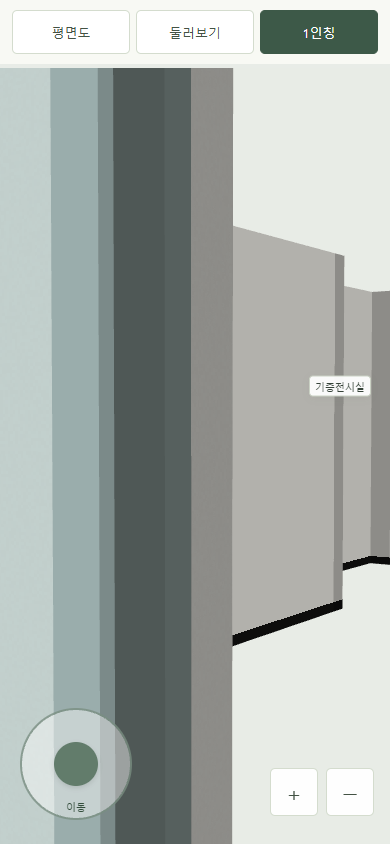
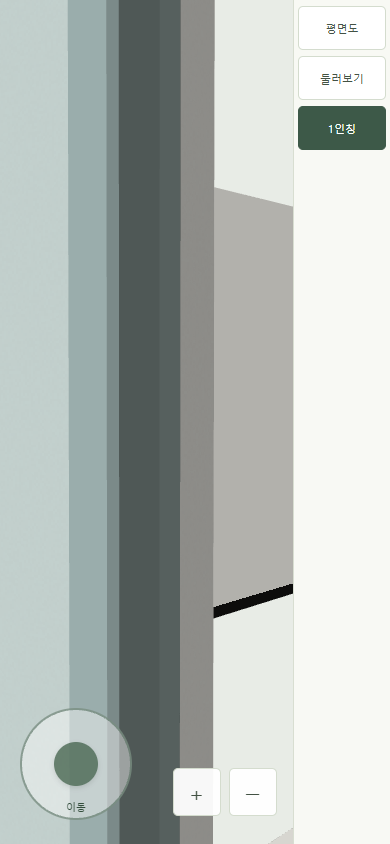
설명란 크기 가변 세팅

diff --git a/style.css b/style.css
@@ -1,5 +1,13 @@
-:root{color-scheme:light;font-family:system-ui,'Malgun Gothic',sans-serif;color:#273631;background:#e8ece7;--d-canvas:#e8ece7}*{box-sizing:border-box}body{margin:0}.app{display:grid;grid-template-columns:minmax(0,1fr) 320px;height:100vh;height:100dvh}.stage{display:flex;flex-direction:column;min-width:0;min-height:0}.viewport{flex:1;position:relative;min-height:0;overflow:hidden}canvas{width:100%;height:100%;display:block;position:absolute;inset:0;outline:none;cursor:default}canvas:focus-visible{outline:2px solid #6c826e;outline-offset:-3px}#labels{position:absolute;inset:0;pointer-events:none}.room-label{position:absolute;transform:translate(-50%,-50%);background:#fffffff0;padding:5px 8px;border:1px solid #cad1c4;border-radius:4px;font-size:11px;white-space:nowrap;color:#364339;box-shadow:0 2px 8px #2438280c}aside{background:#f8f9f4;border-left:1px solid #d8ded1;padding:20px 16px;overflow:auto;display:flex;flex-direction:column}.mode-nav{display:grid;grid-template-columns:repeat(3,minmax(0,1fr));gap:6px}.mode-nav button{font:inherit;font-size:13px;white-space:nowrap;text-align:center;border:1px solid #d4dcce;border-radius:5px;background:#fff;padding:12px 4px;color:#435244;cursor:pointer;min-height:44px}.mode-nav button:hover{border-color:#7d947e}.mode-nav button.active{background:#3d5948;color:white;border-color:#3d5948}button:focus-visible{outline:2px solid #4a7154;outline-offset:2px}#exhibit-info{flex:1;min-height:0;margin-top:20px}#error{position:absolute;inset:30%;background:#fff;padding:20px;color:#963a32}.mobile-hud{display:none}
-.mobile-input{overscroll-behavior:none}.mobile-input .app{display:block;height:100dvh}.mobile-input .stage{height:100dvh;padding-top:calc(68px + env(safe-area-inset-top))}.mobile-input canvas{touch-action:none}.mobile-input aside{position:fixed;left:0;right:0;top:0;z-index:8;border:0;padding:calc(10px + env(safe-area-inset-top)) calc(12px + env(safe-area-inset-right)) 10px calc(12px + env(safe-area-inset-left));background:#f8f9f4}.mobile-input .mode-nav{max-width:440px;width:100%;margin:0 auto}.mobile-input #exhibit-info:empty{display:none}.mobile-input #exhibit-info:not(:empty){max-height:28dvh;overflow:auto}.mobile-input .mobile-hud{display:block;position:absolute;inset:0;pointer-events:none;z-index:5}.mobile-stick{position:absolute;left:calc(20px + env(safe-area-inset-left));bottom:calc(24px + env(safe-area-inset-bottom));width:112px;height:112px;border-radius:50%;background:#ffffff70;border:2px solid #526c5c99;pointer-events:auto;touch-action:none;user-select:none;display:grid;place-items:center}.mobile-stick[hidden]{display:none}.stick-knob{position:absolute;width:44px;height:44px;border-radius:50%;background:#486651cc;box-shadow:0 2px 6px #0002;pointer-events:none}.stick-label{position:absolute;bottom:5px;font-size:10px;color:#344e3c;pointer-events:none}.mobile-zoom{position:absolute;right:calc(16px + env(safe-area-inset-right));bottom:calc(28px + env(safe-area-inset-bottom));display:flex;gap:8px;pointer-events:auto}.mobile-zoom button{font:inherit;font-size:22px;width:48px;height:48px;border:1px solid #d4dcce;border-radius:5px;background:#fffffff0;color:#435244;touch-action:manipulation}.mobile-input .room-label{font-size:10px;padding:3px 5px}@media(orientation:landscape) and (max-height:550px){.mobile-input .mobile-stick{width:96px;height:96px;bottom:calc(20px + env(safe-area-inset-bottom))}}@media(max-width:760px) and (pointer:fine){.app{grid-template-columns:minmax(0,1fr) 260px}aside{padding:12px 8px}.mode-nav button{font-size:12px}}
+:root{color-scheme:light;font-family:system-ui,'Malgun Gothic',sans-serif;color:#273631;background:#e8ece7;--d-canvas:#e8ece7}*{box-sizing:border-box}body{margin:0}.app{display:grid;grid-template-columns:minmax(0,3fr) minmax(0,1fr);height:100vh;height:100dvh}.stage{display:flex;flex-direction:column;min-width:0;min-height:0}.viewport{flex:1;position:relative;min-height:0;overflow:hidden}canvas{width:100%;height:100%;display:block;position:absolute;inset:0;outline:none;cursor:default}canvas:focus-visible{outline:2px solid #6c826e;outline-offset:-3px}#labels{position:absolute;inset:0;pointer-events:none}.room-label{position:absolute;transform:translate(-50%,-50%);background:#fffffff0;padding:5px 8px;border:1px solid #cad1c4;border-radius:4px;font-size:11px;white-space:nowrap;color:#364339;box-shadow:0 2px 8px #2438280c}aside{background:#f8f9f4;border-left:1px solid #d8ded1;padding:clamp(6px,1.4vw,20px) clamp(4px,1.1vw,16px);overflow:auto;display:flex;flex-direction:column;min-width:0;min-height:0;container-type:inline-size}.mode-nav{display:grid;grid-template-columns:repeat(3,minmax(0,1fr));gap:6px}.mode-nav button{font:inherit;font-size:13px;white-space:nowrap;text-align:center;border:1px solid #d4dcce;border-radius:5px;background:#fff;padding:12px 4px;color:#435244;cursor:pointer;min-height:44px}.mode-nav button:hover{border-color:#7d947e}.mode-nav button.active{background:#3d5948;color:white;border-color:#3d5948}button:focus-visible{outline:2px solid #4a7154;outline-offset:2px}#exhibit-info{flex:1;min-height:0;margin-top:20px}#error{position:absolute;inset:30%;background:#fff;padding:20px;color:#963a32}.mobile-hud{display:none}
+.mobile-input{overscroll-behavior:none}.mobile-input .app{height:100dvh}.mobile-input .stage{min-height:0}.mobile-input canvas{touch-action:none}.mobile-input aside{padding-top:max(6px,env(safe-area-inset-top));padding-bottom:max(6px,env(safe-area-inset-bottom));padding-right:max(4px,env(safe-area-inset-right))}.mobile-input .mode-nav{width:100%;margin:0}.mobile-input #exhibit-info:empty{display:none}.mobile-input #exhibit-info:not(:empty){overflow:auto;overflow-wrap:anywhere}.mobile-input .mobile-hud{display:block;position:absolute;inset:0;pointer-events:none;z-index:5}.mobile-stick{position:absolute;left:calc(20px + env(safe-area-inset-left));bottom:calc(24px + env(safe-area-inset-bottom));width:112px;height:112px;border-radius:50%;background:#ffffff70;border:2px solid #526c5c99;pointer-events:auto;touch-action:none;user-select:none;display:grid;place-items:center}.mobile-stick[hidden]{display:none}.stick-knob{position:absolute;width:44px;height:44px;border-radius:50%;background:#486651cc;box-shadow:0 2px 6px #0002;pointer-events:none}.stick-label{position:absolute;bottom:5px;font-size:10px;color:#344e3c;pointer-events:none}.mobile-zoom{position:absolute;right:calc(16px + env(safe-area-inset-right));bottom:calc(28px + env(safe-area-inset-bottom));display:flex;gap:8px;pointer-events:auto}.mobile-zoom button{font:inherit;font-size:22px;width:48px;height:48px;border:1px solid #d4dcce;border-radius:5px;background:#fffffff0;color:#435244;touch-action:manipulation}.mobile-input .room-label{font-size:10px;padding:3px 5px}@media(orientation:landscape) and (max-height:550px){.mobile-input .mobile-stick{width:96px;height:96px;bottom:calc(20px + env(safe-area-inset-bottom))}}
 .room-label{font-family:inherit;line-height:normal}.room-label:not(:disabled){pointer-events:auto;cursor:pointer;touch-action:manipulation}.room-label:not(:disabled):hover{border-color:#47634e;background:#fff}.room-label:disabled{opacity:1;pointer-events:none}
 #waypoints{position:absolute;inset:0;pointer-events:none;z-index:4}#waypoints[hidden]{display:none}.waypoint{position:absolute;transform:translate(-50%,-50%);width:38px;height:20px;border:3px solid #ffffffe6;border-radius:50%;background:#ffffff20;box-shadow:0 1px 4px #0006;pointer-events:auto;cursor:pointer;padding:0}.waypoint[hidden]{display:none}.waypoint:hover,.waypoint:focus-visible{background:#ffffffa0;border-color:#fff}
 .ground-cursor{position:absolute;transform:translate(-50%,-50%);width:30px;height:16px;border:2px solid white;border-radius:50%;background:#ffffff25;box-shadow:0 1px 4px #0006;pointer-events:none;z-index:4}.ground-cursor[hidden]{display:none}
+
+/* 모든 플랫폼 공통 75:25. 좁은 패널은 내부 버튼만 세로 배치한다. */
+@container (max-width:180px){.mode-nav{grid-template-columns:minmax(0,1fr)}.mode-nav button{font-size:11px;white-space:normal;overflow-wrap:anywhere;padding:10px 2px}}
+
+.mobile-panel-toggle{display:none}
+.mobile-input .mobile-panel-toggle{display:grid;place-items:center;position:fixed;right:env(safe-area-inset-right,0px);top:50%;transform:translateY(-50%);z-index:20;width:44px;height:56px;padding:0;border:1px solid #b6c4b7;border-right:0;border-radius:10px 0 0 10px;background:#f8f9f4f2;color:#3d5948;font:32px/1 system-ui;box-shadow:-2px 2px 8px #24382818;touch-action:manipulation;cursor:pointer}
+.mobile-input.panel-hidden .app{grid-template-columns:minmax(0,1fr)}
+.mobile-input.panel-hidden aside{display:none}

diff --git a/mobile-controls.js b/mobile-controls.js
@@ -7,10 +7,23 @@ window.MuseumMobileControls=function(canvas,controls,options={}){
   <div class="mobile-zoom"><button type="button" data-touch="in" aria-label="확대">＋</button><button type="button" data-touch="out" aria-label="축소">−</button></div>
   `;
  canvas.parentElement.append(root);const joystick=root.querySelector('.mobile-stick'),knob=root.querySelector('.stick-knob');
+ const panel=document.querySelector('aside'),panelToggle=document.createElement('button');
+ panel.id='options-panel';panelToggle.type='button';panelToggle.className='mobile-panel-toggle';
+ panelToggle.setAttribute('aria-controls',panel.id);document.body.append(panelToggle);
+ let panelClosed=false;
+ function syncPanel(){
+  const hidden=media.matches&&panelClosed;
+  document.body.classList.toggle('panel-hidden',hidden);
+  panel.inert=hidden;panel.setAttribute('aria-hidden',String(hidden));
+  panelToggle.setAttribute('aria-expanded',String(!hidden));
+  panelToggle.setAttribute('aria-label',hidden?'패널 열기':'패널 숨기기');
+  panelToggle.title=hidden?'패널 열기':'패널 숨기기';panelToggle.textContent=hidden?'‹':'›';
+ }
+ panelToggle.addEventListener('click',()=>{reset();controls.clear();panelClosed=!panelClosed;syncPanel();});
  const release=(target,id)=>{try{if(target.hasPointerCapture(id))target.releasePointerCapture(id);}catch{}};
  function reset(){for(const id of touches.keys())release(canvas,id);touches.clear();pair=null;if(stick!==null)release(joystick,stick);stick=null;axes=[0,0];knob.style.transform='translate(0px,0px)';}
  function sync(){joystick.hidden=controls.state.mode!=='interior';}
- function configure(){reset();document.body.classList.toggle('mobile-input',media.matches);sync();}
+ function configure(){reset();document.body.classList.toggle('mobile-input',media.matches);sync();syncPanel();}
  for(const [name,delta] of [['in',-.15],['out',.15]])root.querySelector(`[data-touch="${name}"]`).addEventListener('click',()=>{controls.input.zoom(delta);});
  const snapshot=()=>{const p=[...touches.values()];return p.length===2?{x:(p[0].x+p[1].x)/2,y:(p[0].y+p[1].y)/2,d:Math.hypot(p[0].x-p[1].x,p[0].y-p[1].y)}:null;};
  canvas.addEventListener('pointerdown',e=>{

diff --git a/README.md b/README.md
@@ -1,105 +1,103 @@
-# 박물관 WebGL2 모델 · 14차
+# 부천활박물관 WebGL2 · 현재 버전
 
 상단·정면·양측면 이미지와 Matterport VR을 참고한 박물관 공간 모델입니다.
-현재 실행 코드는 이 폴더의 파일이며 `archive-v1`~`archive-v13`은 과거 소스 보관본입니다.
+루트 파일이 실행 버전이며 `archive-v*`는 과거 소스 보관본입니다.
 
 ## 실행
 
-`index.html`을 Edge 또는 Chrome에서 엽니다. WebGL2 지원이 필요하며 빌드·외부 다운로드·서버는 필요하지 않습니다.
+`index.html`을 WebGL2 지원 Edge 또는 Chrome에서 엽니다. 빌드·서버·외부 다운로드 없이 실행합니다.
+목재 텍스처는 로컬 실행을 위해 `assets/textures/texture-assets.js`에 데이터 URI로 포함되어 있습니다.
 
-## 구현 범위
+## 관람 화면
 
-- 단일 높이·단일 색상의 직각 외곽 통합 바닥. 야외 표시 영역도 같은 높이입니다.
-- 실내 외곽 22구간의 연결 외벽, 내부 벽, 문틀·문짝, 유리면, 기둥·상부 보.
-- 영상실 앞 공간과 부천활박물관 사이의 곡면·돌출 분리벽 및 동측 열린 통로.
-- 체험마루의 넓은 출입부와 야외 방향 유리문, 기획·기증전시실 경계와 출입부.
-- 입구 안내 책상, 둥근 모서리 작업대, 목재 상부 격자·아치, 빈 전시대·매입 진열부.
-- 상부 전시 영역의 양면 목재 테이블 2개, 대형 빈 받침, 외벽 진열부.
-- 실감형체험장을 별도 공간으로 구획. 서측 출입구와 막힌 뒷면을 가진 전면 전시 홈.
-- 체험마루·기획전시실 천장은 선택 표시.
+- **평면도**: 정확한 탑뷰의 직교투영.
+- **둘러보기**: 주시점 중심의 외부 관찰. 벽 통과 가능.
+- **1인칭**: 눈높이 1.575, 카메라 중심 회전. 벽·문·유리·기둥·전시 시설과 몸체 충돌.
+- 둘러보기에서 구역 이름표를 누르면 해당 구역의 안전 진입점까지 550ms 동안 이동합니다.
+  평면도 이름표는 클릭할 수 없습니다. 1인칭 이름표는 높이 1.85에 표시됩니다.
+- 오른쪽 패널은 관람 방식 세 버튼과 전시물 설명용 빈 `exhibit-info` 영역으로 구성됩니다.
+  예전 시점 목록·공간 목록·표시 체크박스는 현재 UI에 없습니다.
+- PC·태블릿·모바일 모두 화면 너비를 모델 75%, 오른쪽 패널 25%로 나눕니다.
+  좁은 패널 안에서는 버튼을 세로로 배치하며 패널 내용은 내부 스크롤합니다.
+  모바일도 상단 바가 아닌 오른쪽 패널을 사용합니다.
 
-전시품·모형·부조 작품·족자·설명 인쇄물·영상 콘텐츠·벽 텍스처는 포함하지 않습니다.
-현재 범위에는 빈 전시 시설과 책상이 포함됩니다.
+## PC 조작
 
-## 조작
+- 외부: 마우스 왼쪽 드래그 또는 방향키로 주시점 중심 회전, WASD로 시점 기준 수평 이동.
+  외부에서는 방향키 회전이 WASD 이동보다 우선합니다.
+- 외부 상하 회전은 수평~탑뷰. 정확한 탑뷰에서만 직교투영이며 기울이면 원근투영으로 복귀합니다.
+- 내부: FPS 커서 잠금 후 마우스 이동 또는 방향키로 시선 회전. 상하 범위는 ±45°이며 항상 원근투영입니다.
+  Esc로 잠금을 풀고 화면 클릭으로 재개합니다. 마우스 민감도는 외부의 절반입니다.
+- 내부 WASD는 시선 기준 수평 이동, 초당 3 상대 단위입니다. 이동과 회전을 동시에 적용합니다.
+- 휠 / + / −: 외부는 거리, 내부는 위치를 유지한 FOV 확대·축소(25~75°).
+- Space: 외부/내부 전환. 첫 진입은 입구 대기 공간 (125,430)에서 유리 출입문 (205,366.5)을 바라봅니다.
+  재진입은 마지막 내부 위치·시선·FOV를 복원합니다.
+- Home: 전체 외부 보기.
+- 왼쪽 Shift: 커서 잠금을 풀고 바닥 클릭 이동. Shift+드래그는 회전만 수행합니다.
+  목적지까지 충돌을 피하는 A* 경로로 이동하며 자세한 동작은 [WAYPOINTS.md](WAYPOINTS.md)를 참고하세요.
 
-PC 조작은 명시적 플래그 `controls.state.mode`로 구분합니다. 위치나 확대 배율만으로 모드를 자동 변경하지 않습니다.
+## 모바일 조작
 
-| 모드 | 방향키 회전 | 벽 충돌 | 시작 시선·높이 |
-|---|---|---|---|
-| 외부 관찰 (exterior) | 주시점 중심 | 없음 | 전체·구역 관찰 시점 |
-| 내부 1인칭 (interior) | 카메라 제자리 | 벽·닫힌 문·유리·기둥에 적용 | 수평, 문 높이 2.1의 3/4인 1.575 |
+- 둘러보기: 한 손가락 회전, 두 손가락 이동, 핀치 확대·축소.
+- 1인칭: 왼쪽 조이스틱으로 시선 기준 수평 이동, 화면 드래그로 시선 회전(±45°).
+  이동·회전을 동시에 수행하며 조이스틱 변위에 따라 속도를 조절합니다.
+- 확대·축소 버튼은 외부 거리 또는 내부 FOV를 변경합니다. 커서 잠금은 요청하지 않습니다.
+- 화면 회전·창 전환·터치 취소·모드 전환 시 입력을 초기화합니다.
+- 화면 오른쪽 테두리 중앙의 화살표 버튼으로 패널을 숨기거나 다시 엽니다.
+  숨김 상태에서는 모델이 화면 전체 너비를 사용하며, 열면 75:25 비율로 복원합니다.
+  패널 전환 시 터치 입력을 초기화하고 카메라 위치·시선·관람 모드는 유지합니다.
 
-- 스페이스바 또는 모드 버튼: 외부/내부 전환. 자동 반복 입력은 무시하고 키 상태를 초기화합니다.
-- 첫 내부 진입은 표시된 서측 입구 대기 공간 (125,430)에서 부천활박물관 유리 출입문 (205,366.5)을 바라보는 수평 시선입니다. 좌표는 참고 이미지 기준 근사입니다.
-- 내부 재진입은 마지막 위치·좌우/상하 시선·FOV를 복원합니다. 시점 버튼이나 Home으로 외부로 나가도 내부 상태는 보존됩니다.
-- 외부 모드 버튼·스페이스 전환은 직전 외부 시점을 복원합니다. Home·관찰 시점 버튼은 지정 외부 시점으로 돌아갑니다.
-- 공간 버튼: 외부에서는 공간을 관찰하고, 내부에서는 해당 공간의 안전한 위치로 이동합니다.
-- 화면 클릭 후 WASD: 시점 기준 바닥과 평행하게 이동합니다. 외부는 기존 대비 1.5배 속도,
-  내부는 확대율과 무관하게 초당 3 상대 단위입니다(이전 내부 속도의 2배).
-- 외부 관찰에서 마우스 왼쪽 드래그: 주시점 중심 좌우·상하 회전. 정확한 탑뷰에서도 수직 드래그로 기울이면 원근투영으로 돌아갑니다. Matterport 미니어처·평면도 관찰을 참고한 동작이며 관성·전환 애니메이션은 아직 적용하지 않았습니다.
-- 내부 1인칭으로 전환하면 즉시 커서를 잠그고, 버튼을 누르지 않은 마우스 이동으로 시선을 회전합니다(FPS 방식). Esc로 커서를 해제하며 다시 화면을 클릭하면 재개합니다. 민감도는 외부의 절반, 상하 제한은 마우스·방향키 모두 ±45°입니다. 크로스헤어는 표시하지 않습니다.
-- 방향키 좌우: 무제한 회전. 내부는 오른쪽 키로 오른쪽, 위쪽 키로 위를 봅니다. 상하는 수평 기준 위·아래 각 45도입니다. 외부는 수평~탑뷰입니다. 외부는 회전 입력이 이동·확대보다 우선하며, 내부는 WASD 이동과 방향키 회전을 동시에 적용합니다.
-- 외부의 정확한 탑뷰만 직교투영이며 조금이라도 기울면 원근투영으로 돌아갑니다. 내부는 항상 원근투영이고 수직 시선에 도달하지 않습니다.
-- 휠 / + / −: 외부는 거리 조절, 내부는 위치를 유지한 FOV 확대/축소(25~75°)입니다.
-- 내부 충돌은 이동 선분 전체를 검사하고 벽을 따라 미끄러집니다. 열린 문은 통과할 수 있습니다.
-  낮춘 벽이나 숨긴 벽도 원래 구조 기준으로 충돌하며, 전시대·진열장·책상·작업대도 몸체 높이 범위로 충돌 검사합니다. 둥근 사용자 정의 작업대는 경계 상자로 근사하며, 머리 위 격자·아치는 이동을 막지 않습니다.
-- 상부 전시 영역 전용 시점은 관련 구역을 집중 표시합니다.
-- 벽·문틀/문짝·기둥/보·상세·전시대·유리·천장·공간 이름은 각각 표시 전환할 수 있습니다.
-- 벽 낮추기는 벽체만 축소합니다. 비벽체와 선택한 천장은 유지됩니다.
-- 모바일 3인칭: 한 손가락 드래그 회전, 두 손가락 드래그로 화면 기준 이동, 핀치 확대·축소.
-- 모바일 1인칭: 왼쪽 조이스틱으로 시선 기준 수평 이동, 화면 드래그로 시선 회전(±45°). 이동·회전을 동시에 사용할 수 있고 조이스틱은 밀어낸 정도에 따라 속도를 조절합니다.
-- 모바일 확대·축소 버튼은 3인칭에서는 거리, 1인칭에서는 시야각을 바꿉니다. 커서 잠금은 요청하지 않습니다.
-- 모바일에서는 공간·설정 패널을 접고 모드·전체 보기 버튼을 표시합니다. 세로·가로 화면과 안전 영역에 대응하며 화면 회전·창 전환·터치 취소·모드/공간 전환 시 터치 입력을 초기화합니다.
+## 모델·재질 범위
+
+- 단일 높이의 직각 외곽 통합 바닥, 실내 외피 22구간, 내부 벽·문·유리·기둥·보.
+- 로비의 곡면 분리벽, 목재 격자·아치·책상·작업대, 빈 진열장·전시대.
+- 주 전시실의 목재 테이블 2개와 진열부, 별도 실감형체험장과 막힌 뒷면의 전시 홈.
+- 실감형체험장은 사용자 지정 직사각 확장 구역(X818~1056, Z24~175)입니다.
+- 야외체험장은 사용자 지정 확장 마당이며 낮은 경계벽 높이는 0.63입니다.
+  서측 쪽문은 열린 통로이며 양방향 이동할 수 있습니다.
+- 체험마루 목재 텍스처, 관찰 기반 절차적 바닥·도장 벽·목재 마감과 걸레받이.
+  전시품·모형·부조 작품·설명 인쇄물·영상 콘텐츠는 생성하지 않습니다.
+- 재질 근거와 근사 범위는 [VR-MATERIALS.md](VR-MATERIALS.md)에 기록합니다.
+- `surfaces.js`는 겹친 공면을 잘라내어 중복 표시를 줄입니다. 정상 접합 부피·충돌 데이터는 유지합니다.
 
 ## 파일 구성
 
 | 파일 | 역할 |
 |---|---|
-| `index.html`, `style.css` | 화면과 표시 옵션 |
-| `layout.js` | 바닥·외피·내부 벽·기둥·보·천장의 기본 데이터 |
-| `details.js` | 상세 부재와 공간 데이터 보완. layout.js 다음에 실행 |
-| `geometry.js` | 개구부·문·프레임·돌출 다각형 등 메시 생성 |
-| `surfaces.js` | 현재 표시 상태에 맞춰 공면의 중복 영역을 삼각형에서 제거 |
-| `viewer.js` | WebGL2 렌더링, 투명 유리, 카메라와 표시 전환 |
-| `controls.js` | 외부/내부 모드, PC 이동·회전·투영·확대 |
-| `mobile-controls.js` | 터치 제스처·가상 조이스틱·모바일 HUD. PC 이벤트와 분리하고 controls.input 공통 카메라 API 사용 |
-| `collision.js` | 실내 수평 이동의 벽 충돌·미끄러짐·안전 진입점 탐색 |
-| `demo.js` | 제공 예제의 공통 WebGL·행렬 도구 |
-| `OBSERVATIONS.md` | 현재 배치의 근거·주요 좌표·미확정 항목 |
-| `verify-model.cjs` | 모델 데이터·접합·통로 검사 |
-| `verify.cjs` | Edge 렌더링·UI 검사와 미리보기 이미지 생성 |
-| `preview*.png` | 전체·평면·구역별 검토 이미지 |
-| `reference-donated-plan.png` | 기증전시실 배치 참고 이미지 |
+| `index.html`, `style.css` | 관람 UI, 공통 75:25 레이아웃, 모바일 HUD 스타일 |
+| `layout.js`, `details.js` | 기본 공간·부재 데이터와 상세·구역 이름·진입점 보완 |
+| `geometry.js`, `surfaces.js` | 메시 생성과 중복 표면 제거 |
+| `materials.js`, `assets/textures/` | 절차적 재질 분류와 목재 텍스처 |
+| `controls.js`, `mobile-controls.js` | PC 입력·공통 카메라 API와 모바일 입력 |
+| `collision.js` | 몸체 충돌·벽 미끄러짐·안전 진입점 탐색 |
+| `shift-navigation.js`, `pathfinding.js` | 바닥 선택과 A* 이동 경로 |
+| `viewer.js` | WebGL2 렌더링·텍스처·이름표·진입/경로 이동 애니메이션 |
+| `demo.js` | 공통 WebGL·행렬 도구 |
+| `OBSERVATIONS.md` | 구조 관찰·좌표 근거 기록. 현재 형상은 코드 기준 |
+| `verify*.cjs` | 모델·조작·모바일·표면·이름표·재질·경로·레이아웃 검사 |
+| `preview*.png` | 검토 이미지 |
 
-## 좌표와 제약
+## 좌표·제약
 
-상단 이미지 1228×612 픽셀의 평면 좌표를 사용합니다. 원점은 (650,340), 배율은 0.035이며,
-X는 이미지 오른쪽, Z는 아래쪽, Y는 위쪽입니다. 실제 방위·미터 단위가 아닙니다.
-기본 벽 높이 2.8, 두께 0.16 및 개별 상세 치수는 상대 비율에 따른 근사입니다.
-
-외벽의 가려진 구간은 정규화된 직각 외곽으로 보간했습니다. 전체 외벽과 실내 치수의 실측 복원은 아닙니다.
-영상실 양개문 뒤의 미확인 내부와 전체 지붕은 생성하지 않았습니다. 야외 둘레에는 건물 외벽을 두지 않습니다.
-`rooms`는 공간 이름·카메라 중심용이며 정확한 실 경계는 벽 데이터로 확인합니다.
+원본 상단 이미지 1228×612 픽셀, 원점 (650,340), 배율 0.035입니다.
+X는 이미지 오른쪽, Z는 아래쪽, Y는 위쪽이며 실제 방위·미터 단위가 아닙니다.
+높이·두께·개구부 치수·가려진 외벽 연결은 상대 비율 근사입니다.
+영상실 양개문 뒤 미확인 내부와 전체 지붕은 생성하지 않았습니다.
+관찰 기반 복원과 사용자 지정 확장 영역을 실제 건물의 실측 형상으로 해석하지 않습니다.
 
 ## 검증
 
-`node audit-overlaps.cjs`는 원본 부재의 체적 교차·공면 중첩을 검사해 `OVERLAP-AUDIT.md`와 `overlap-audit.json`을 만듭니다.
-`node verify-surfaces.cjs`는 실제 렌더링용으로 잘라낸 면을 다시 검사합니다. 기본·천장·벽 낮추기·벽 숨김·기둥 숨김·상부 전시영역에서 잔여 공면 중첩 면적이 0.000001 상대 단위 제곱 이하인지 검증합니다.
-부재의 접합 부피와 충돌 데이터는 유지하며, 중복 면만 제거합니다. 표시 상태가 바뀌면 면을 다시 구성하고 이전 GPU 버퍼를 해제합니다.
+- `node verify-controls.cjs`, `node verify-model.cjs`: 조작·충돌·공간·메시 검사.
+- `node verify-surfaces.cjs`: 중복 표면 검사 및 `surface-cleanup-results.json` 갱신.
+- `node audit-overlaps.cjs`: 원본 부재의 체적·공면 교차 보고서 생성.
+- `node verify.cjs`: Edge UI·WebGL 회귀 검사 및 미리보기 갱신.
+- `node verify-mobile.cjs`: 모바일 터치·동시 입력·세로/가로 레이아웃 검사.
+- `node verify-waypoints.cjs`, `node verify-room-labels.cjs`, `node verify-materials.cjs`: 바닥 이동·이름표·재질 검사.
+- `node verify-layout.cjs`: PC/모바일 여러 화면 크기에서 75:25 비율·넘침 검사.
 
-`node verify-controls.cjs`는 시점 기준 이동, 회전 우선순위, 각도 제한, 연속 회전, 휠과 포커스 해제를 검사합니다.
-`node verify-mobile.cjs`는 Edge의 모바일 터치 에뮬레이션에서 회전·이동·핀치·조이스틱/시선 동시 입력·해제·패널과 화면 배치를 검사합니다. 실제 iOS Safari/Android 기기의 체감과 브라우저 UI 동작은 실기기 확인이 필요합니다.
-
-이 폴더에서 `node verify-model.cjs`를 실행합니다. 메시 면적·삼각분할·법선 방향, ID·치수,
-외피 폐합, 문·통로 여유, 벽 접합, 기둥·보 접촉 및 주요 상세 배치를 검사합니다.
-
-`node verify.cjs`는 Playwright와 설치된 Edge가 필요합니다. 필요하면 `PLAYWRIGHT_PATH` 환경 변수에
-Playwright 패키지 경로를 지정합니다. WebGL 오류·시점·표시 전환·벽 낮추기·공간 이동·Home·모바일 폭을
-검사하고 `preview*.png`를 갱신합니다. 자동 검사 통과는 실제 건축 치수의 정확성 검증을 뜻하지 않습니다.
+브라우저 검사는 Playwright와 설치된 Edge가 필요합니다. 필요하면 `PLAYWRIGHT_PATH`에 패키지 경로를 지정합니다.
+자동 검사 통과는 실제 건물 치수의 정확도나 iOS/Android 실기기의 조작감 검증을 뜻하지 않습니다.
 
 ## 참고 자료
 
-- 상위 레퍼런스 폴더의 상단·정면·양측면 이미지 4장
-- [부천활박물관 Matterport VR](https://my.matterport.com/show/?m=B8d8EBTDFq3)
-- 상세 관찰과 근사 범위: [OBSERVATIONS.md](OBSERVATIONS.md)
+상위 폴더의 4방향 이미지와 [Matterport VR](https://my.matterport.com/show/?m=B8d8EBTDFq3)을 참고합니다.

diff --git a/WAYPOINTS.md b/WAYPOINTS.md
@@ -1,16 +1,19 @@
-# Shift 자유 이동
+# Shift 바닥 이동 · 현재 동작
 
-기존 고정 기준점 방식을 폐기하고 shift-navigation.js로 대체했습니다.
+PC 1인칭에서 사용하는 임의 바닥 목적지 이동입니다. 고정 웨이포인트는 생성하지 않습니다.
 
-- 1인칭에서 왼쪽 Shift를 누르면 커서 잠금을 해제합니다.
-- Shift + 좌클릭 드래그로 시선을 회전합니다. 상하 범위 ±45도는 기존과 같습니다.
-- 클릭과 드래그는 5px 임계값으로 구분하며 드래그를 마칠 때는 이동하지 않습니다.
-- 드래그 없이 바닥을 클릭하면 화면 광선과 바닥의 교점으로 약 380ms 동안 수평 이동합니다. 고정 목적지로 스냅하지 않습니다.
-- 바닥 밖, 하늘, 벽·유리·가구가 가리는 바닥, 충돌 경로가 막힌 목적지는 거부합니다. 돌아가야 하는 위치에는 먼저 통로의 바닥을 클릭해야 합니다.
-- 유효한 목적지에는 마우스를 따라 작은 원 표시가 나타납니다. 저장된 포인트가 아닙니다.
-- Shift를 놓으면 FPS 커서 잠금을 재요청하며 창 전환 시 입력을 초기화합니다.
+- 왼쪽 Shift를 누르면 FPS 커서 잠금을 해제합니다.
+- Shift+좌클릭 드래그는 시선을 회전하며 상하 범위는 ±45°입니다.
+  클릭/드래그는 5px 임계값으로 구분하고 드래그 종료 시에는 이동하지 않습니다.
+- 드래그 없이 바닥을 클릭하면 화면 광선과 바닥의 교점을 목적지로 선택합니다.
+- 유리를 통해 보이는 바닥도 선택할 수 있습니다. 벽·가구 등 불투명 물체에 가려진 바닥,
+  바닥 밖·하늘·60 상대 단위를 넘는 지점·너무 가까운 지점·몸체가 설 수 없는 위치는 선택하지 않습니다.
+- 직선 경로가 막혀도 즉시 거부하지 않습니다. `pathfinding.js`가 0.25 간격 A* 탐색과 선분 충돌 검사로
+  열린 문·통로를 통한 경로를 찾고 불필요한 꺾임을 줄입니다. 접근 가능한 경로가 없으면 이동하지 않습니다.
+- 카메라는 경로를 따라 수평 이동합니다. 이동 시간은 경로 길이에 따라 380~1600ms입니다.
+  벽·유리·진열대를 통과하지 않으며 이동 중 보행·시선·확대 입력은 잠시 중단합니다.
+- 유효한 바닥에는 마우스를 따라 작은 원이 표시됩니다. 저장된 기준점이 아닙니다.
+- Shift를 놓으면 커서 잠금을 재요청하고, 창 전환 시 입력을 초기화합니다.
 
-검증: node verify-waypoints.cjs. Shift 해제/복귀, 드래그 회전과 이동 분리, 임의 바닥 좌표 도착, 잘못된 표면 거부, 고정 포인트 없음 확인.
-
-## 우회 경로 수정
-보이는 바닥을 선택할 때 직선 이동 가능 여부로 거부하지 않습니다. 유리를 통한 바닥도 선택 가능하며, 실제 이동 경로는 유리를 통과하지 않고 열린 출입부를 찾습니다. A*와 선분 충돌 검사로 경로를 계산하고 불필요한 꺾임을 줄인 뒤 경로를 따라 이동합니다. 막힌 공간이나 캐릭터가 설 수 없는 목적지는 계속 거부합니다.
+구현: `shift-navigation.js`, `pathfinding.js`, `viewer.js`, `collision.js`.
+검증: `node verify-waypoints.cjs` (Playwright·Edge 필요).
